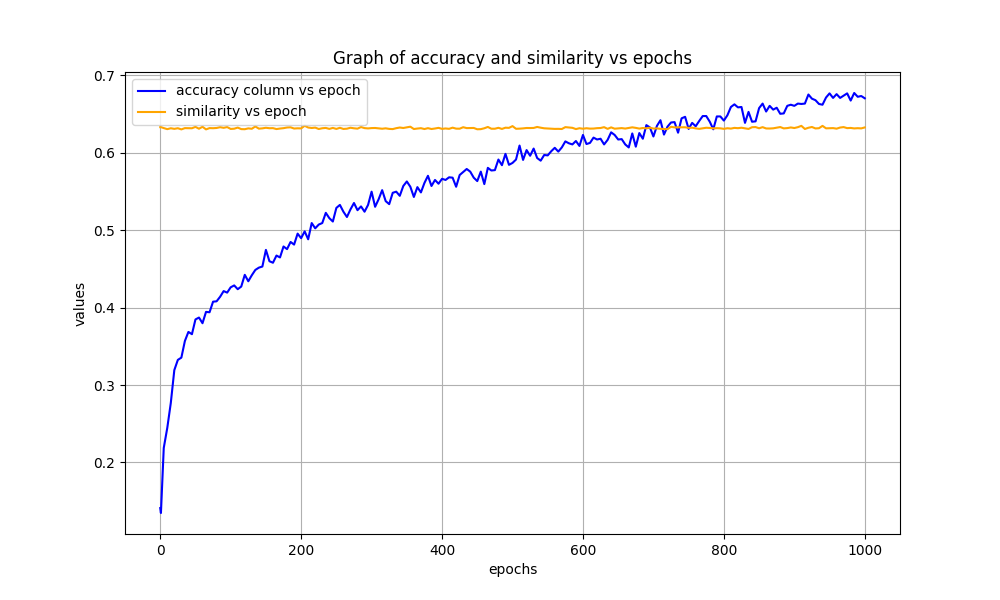
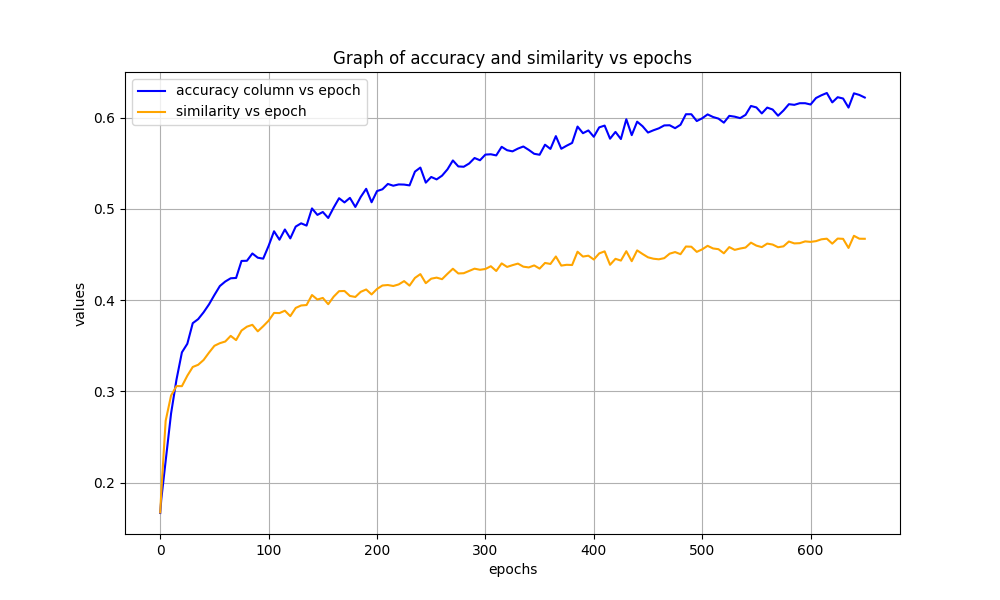
push

diff --git a/log_files/visualizer.py b/log_files/visualizer.py
@@ -1,10 +1,15 @@
 import pandas as pd
 import matplotlib.pyplot as plt
+import numpy as np
+
 
 df = pd.read_csv('/home/harsh/arjun/fedSSL-research/log_files/visualization_data.csv')
 
+
+
+
 plt.figure(figsize=(10, 6))
-plt.plot(df['epoch'], df['accuracy'], label='accuracy column vs epoch', color='blue')
+plt.plot(df['epoch'],  df['accuracy'], label='accuracy column vs epoch', color='blue')
 plt.plot(df['epoch'], df['similarity'], label='similarity vs epoch', color='orange')
 plt.xlabel('epochs')
 plt.ylabel('values')
